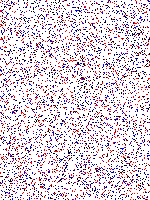
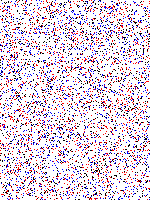
add lab4

diff --git a/trash/trash.py b/trash/trash.py
@@ -1,0 +1,197 @@
+import tkinter as tk
+from tkinter import messagebox
+import math
+
+
+# ==========================================
+# МОДУЛЬ ВЫЧИСЛЕНИЙ (Логика задачи)
+# По требованиям его можно вынести в отдельный файл (например, solver.py)
+# ==========================================
+
+def get_distance(p1, p2):
+    """Вычисляет расстояние между двумя точками."""
+    return math.hypot(p1[0] - p2[0], p1[1] - p2[1])
+
+
+def count_points_in_circle(center, points, radius):
+    """Считает количество точек внутри окружности заданного радиуса."""
+    count = 0
+    for p in points:
+        if get_distance(center, p) <= radius:
+            count += 1
+    return count
+
+
+def find_solution(points, radius):
+    """
+    Находит две различные точки, окружности которых содержат
+    одинаковое количество точек. (Метод полного перебора).
+    Возвращает кортеж: (точка1, точка2, количество_точек) или None.
+    """
+    n = len(points)
+    if n < 2:
+        return None
+
+    for i in range(n):
+        for j in range(i + 1, n):
+            c1 = count_points_in_circle(points[i], points, radius)
+            c2 = count_points_in_circle(points[j], points, radius)
+
+            if c1 == c2:
+                return (points[i], points[j], c1)
+    return None
+
+
+# ==========================================
+# МОДУЛЬ ИНТЕРФЕЙСА (GUI на Tkinter)
+# ==========================================
+
+class App(tk.Tk):
+    def __init__(self):
+        super().__init__()
+        self.title("Лабораторная работа: Планиметрия")
+        self.geometry("900x600")
+        self.resizable(False, False)
+
+        self.points = []  # Список кортежей (x, y)
+        self.result_data = None  # Хранение текущего результата
+
+        self.setup_ui()
+
+    def setup_ui(self):
+        # --- Левая панель (Управление) ---
+        control_frame = tk.Frame(self, width=250, padx=10, pady=10)
+        control_frame.pack(side=tk.LEFT, fill=tk.Y)
+
+        # Ввод координат
+        tk.Label(control_frame, text="Добавить точку с клавиатуры:").pack(anchor=tk.W)
+        coord_frame = tk.Frame(control_frame)
+        coord_frame.pack(fill=tk.X, pady=5)
+
+        tk.Label(coord_frame, text="X:").pack(side=tk.LEFT)
+        self.entry_x = tk.Entry(coord_frame, width=5)
+        self.entry_x.pack(side=tk.LEFT, padx=5)
+
+        tk.Label(coord_frame, text="Y:").pack(side=tk.LEFT)
+        self.entry_y = tk.Entry(coord_frame, width=5)
+        self.entry_y.pack(side=tk.LEFT, padx=5)
+
+        tk.Button(coord_frame, text="Добавить", command=self.add_point_kb).pack(side=tk.LEFT, padx=5)
+
+        # Список точек
+        tk.Label(control_frame, text="Список точек:").pack(anchor=tk.W, pady=(10, 0))
+        self.listbox = tk.Listbox(control_frame, height=10)
+        self.listbox.pack(fill=tk.X, pady=5)
+
+        # Радиус
+        tk.Label(control_frame, text="Радиус окружностей (R):").pack(anchor=tk.W, pady=(10, 0))
+        self.entry_r = tk.Entry(control_frame)
+        self.entry_r.insert(0, "50")  # Значение по умолчанию
+        self.entry_r.pack(fill=tk.X, pady=5)
+
+        # Кнопки управления
+        tk.Button(control_frame, text="Решить задачу", bg="lightblue", command=self.solve_task).pack(fill=tk.X, pady=10)
+        tk.Button(control_frame, text="Очистить результат", command=self.clear_result).pack(fill=tk.X, pady=2)
+        tk.Button(control_frame, text="Очистить всё", fg="red", command=self.clear_all).pack(fill=tk.X, pady=2)
+
+        # Вывод текста результата
+        tk.Label(control_frame, text="Результат:").pack(anchor=tk.W, pady=(10, 0))
+        self.lbl_result = tk.Label(control_frame, text="Ожидание расчета...", fg="blue", justify=tk.LEFT,
+                                   wraplength=230)
+        self.lbl_result.pack(anchor=tk.W, fill=tk.X)
+
+        # --- Правая панель (Холст) ---
+        self.canvas = tk.Canvas(self, bg="white", cursor="crosshair")
+        self.canvas.pack(side=tk.RIGHT, fill=tk.BOTH, expand=True)
+        self.canvas.bind("<Button-1>", self.add_point_mouse)  # Клик левой кнопкой мыши
+
+    def update_views(self):
+        """Синхронизирует холст и список точек."""
+        # Обновляем Listbox
+        self.listbox.delete(0, tk.END)
+        for i, (x, y) in enumerate(self.points):
+            self.listbox.insert(tk.END, f"{i + 1}. ({x}, {y})")
+
+        # Обновляем Canvas
+        self.canvas.delete("all")
+
+        # Отрисовка точек
+        for x, y in self.points:
+            self.canvas.create_oval(x - 3, y - 3, x + 3, y + 3, fill="black")
+
+        # Если есть результат, рисуем окружности и выделяем точки
+        if self.result_data:
+            p1, p2, r = self.result_data
+
+            # Рисуем окружности
+            self.canvas.create_oval(p1[0] - r, p1[1] - r, p1[0] + r, p1[1] + r, outline="green", width=2)
+            self.canvas.create_oval(p2[0] - r, p2[1] - r, p2[0] + r, p2[1] + r, outline="blue", width=2)
+
+            # Выделяем точки-центры красным цветом
+            self.canvas.create_oval(p1[0] - 4, p1[1] - 4, p1[0] + 4, p1[1] + 4, fill="red")
+            self.canvas.create_oval(p2[0] - 4, p2[1] - 4, p2[0] + 4, p2[1] + 4, fill="red")
+
+    def add_point_kb(self):
+        """Добавление точки с клавиатуры."""
+        try:
+            x = float(self.entry_x.get())
+            y = float(self.entry_y.get())
+            self.points.append((x, y))
+            self.clear_result()  # Очищаем старый результат при добавлении новой точки
+            self.update_views()
+            self.entry_x.delete(0, tk.END)
+            self.entry_y.delete(0, tk.END)
+        except ValueError:
+            messagebox.showerror("Ошибка", "Координаты должны быть числами!")
+
+    def add_point_mouse(self, event):
+        """Добавление точки кликом мыши по холсту."""
+        self.points.append((event.x, event.y))
+        self.clear_result()  # Очищаем старый результат
+        self.update_views()
+
+    def solve_task(self):
+        """Запуск алгоритма решения."""
+        if len(self.points) < 2:
+            messagebox.showwarning("Внимание", "Добавьте как минимум 2 точки!")
+            return
+
+        try:
+            r = float(self.entry_r.get())
+            if r <= 0:
+                raise ValueError
+        except ValueError:
+            messagebox.showerror("Ошибка", "Радиус должен быть положительным числом!")
+            return
+
+        # Вызов функции из логического модуля
+        res = find_solution(self.points, r)
+
+        if res:
+            p1, p2, count = res
+            self.result_data = (p1, p2, r)  # Сохраняем для отрисовки
+            self.lbl_result.config(
+                text=f"Найдено!\nТочка 1: {p1}\nТочка 2: {p2}\nТочек внутри: {count}",
+                fg="green"
+            )
+        else:
+            self.result_data = None
+            self.lbl_result.config(text="Таких точек не найдено.", fg="red")
+
+        self.update_views()
+
+    def clear_result(self):
+        """Очистка только результата вычислений (точки остаются)."""
+        self.result_data = None
+        self.lbl_result.config(text="Ожидание расчета...", fg="blue")
+        self.update_views()
+
+    def clear_all(self):
+        """Полная очистка (точек и результата)."""
+        self.points.clear()
+        self.clear_result()
+
+
+if __name__ == "__main__":
+    app = App()
+    app.mainloop()

diff --git a/sem2/lab4/interface.py b/sem2/lab4/interface.py
@@ -1,0 +1,129 @@
+import tkinter as tk
+from tkinter import messagebox, ttk
+
+from functions import *
+
+
+# Функции интерфейса
+
+def add_point_from_canvas(event):
+    "считывает координаты нажатия на холст и добавляет точку в список всех точек"
+    points.append((event.x, event.y))
+    draw_point(event.x, event.y)
+    add_point_to_text()
+
+def add_point_from_button():
+    "добавляет точку по кнопке"
+    x = x_entry.get()
+    y = y_entry.get()
+    try:
+        x, y = int(x), int(y)
+    except:
+        messagebox.showerror("Ошибка", "Координаты точки должны быть целыми числами")
+        return
+    points.append((x, y))
+    draw_point(x, y)
+    add_point_to_text()
+
+
+def draw_point(x, y):
+    "рисует точку на холсте"
+    canvas.create_oval(x - 2, y - 2, x + 2, y + 2, fill="black")
+
+
+def add_point_to_text():
+    "добавляет точку в listBox"
+    ind = len(points) - 1
+    points_list.insert(tk.END, f"{ind + 1}. X: {points[ind][0]}; Y: {points[ind][1]}")
+    points_list.see(tk.END)
+
+def clear_all():
+    "очищает список точек и холст"
+    clear_solution()
+    canvas.delete("all")
+    points.clear()
+    points_list.delete(0, tk.END)
+
+def clear_solution():
+    canvas.delete("solution")
+    solution_label.config(text = "")
+
+def solve():
+    clear_solution()
+    if len(points) < 2:
+        messagebox.showerror("Ошибка", "Должно быть как минимум 2 точки")
+        return
+    try:
+        radius = int(radius_entry.get())
+    except:
+        messagebox.showerror("Ошибка", "Радиус должен быть целым числом")
+        return
+    a, b, included_points = find_points(points, radius)
+    canvas.create_oval(
+        a[0] - radius, a[1] - radius,
+        a[0] + radius, a[1] + radius,
+        outline='blue', tags = 'solution')
+    canvas.create_oval(
+        b[0] - radius, b[1] - radius,
+        b[0] + radius, b[1] + radius,
+        outline='red', tags = 'solution')
+    # запись в текстовое поле
+    solution_label.config(text = f"1: X: {a[0]}; Y: {a[1]}\n2: X: {b[0]}; Y: {b[1]}\n Точек внутри: {included_points}")
+
+
+points = []
+
+root = tk.Tk()
+root.geometry("800x600")
+root.minsize(800, 600)
+root.title("Лабораторная работа 4")
+
+# создание сетки
+for c in range(8): root.columnconfigure(index=c, weight=1)
+for r in range(20): root.rowconfigure(index=r, weight=1)
+
+# расположение элементов
+canvas = tk.Canvas(root)
+canvas.grid(row=0, column=2, rowspan=20, columnspan=6, sticky='nsew')
+canvas.bind("<Button-1>", add_point_from_canvas)
+
+ttk.Label(root, text='X:').grid(row=0, column=0)
+ttk.Label(root, text='Y:').grid(row=1, column=0)
+
+x_entry = ttk.Entry(root)
+x_entry.grid(row=0, column=1)
+y_entry = ttk.Entry(root)
+y_entry.grid(row=1, column=1)
+
+add_point_btn = ttk.Button(root, text='Добавить точку', command=add_point_from_button)
+add_point_btn.grid(row=2, column=0, columnspan=2)
+
+# список всех точек
+points_list = tk.Listbox(root)
+points_list.grid(row=3, column=0, columnspan=2, rowspan=10, sticky="nsew")
+
+# радиус
+ttk.Label(root, text="Радиус:").grid(row=13, column=0)
+radius_entry = ttk.Entry(root)
+radius_entry.insert(0, "100")
+radius_entry.grid(row=13, column=1)
+
+# кнопки очистки
+clear_all_btn = ttk.Button(root, text="Очистить все", command=clear_all)
+clear_all_btn.grid(row=14, column=0, columnspan=2)
+
+
+clear_solution_btn = ttk.Button(root, text = "Очистить решение", command = clear_solution)
+clear_solution_btn.grid(row=15, column=0, columnspan=2)
+
+# кнопка решения
+solve_btn = ttk.Button(root, text="Решить", command=solve)
+solve_btn.grid(row=16, column=0, columnspan=2)
+
+# вывод решения
+ttk.Label(root, text = "Решение:").grid(row=17, column=0)
+solution_label = ttk.Label(root)
+solution_label.grid(row=18, column=0, columnspan=2)
+
+
+root.mainloop()

diff --git a/sem2/lab4/functions.py b/sem2/lab4/functions.py
@@ -1,0 +1,35 @@
+"""
+Макжанов Илья ИУ7-26Б
+Из заданного множества точек на плоскости выбрать две
+различные точки так, чтобы окружности заданного радиуса
+с центрами в этих точках содержали внутри себя
+одинаковое количество заданных точек.
+"""
+
+import math
+
+def calc_distance(a: tuple[int, int], b: tuple[int, int]) -> float:
+    return math.sqrt((a[0] - b[0])**2 + (a[1] - b[1])**2)
+
+
+def count_included_points(point: tuple[int, int], points: list[tuple[int, int]], radius: int) -> int:
+    "считает сколько точек лежат внутри окружности с центром в данной точке point и радиусом radius"
+    included_points = 0
+    for cur_point in points:
+        if calc_distance(point, cur_point) < radius:
+            included_points += 1
+
+    return included_points
+
+
+def find_points(points: list[tuple[int, int]], radius: int) -> tuple[tuple[int, int], tuple[int, int], int] | None:
+    for i in range(len(points)):
+        included_points = count_included_points(points[i], points, radius)
+        for j in range(i + 1, len(points)):
+            cur_included_points = count_included_points(points[j], points, radius)
+            if included_points == cur_included_points:
+                return points[i], points[j], included_points
+
+    # точки не найдены
+    return None
+
